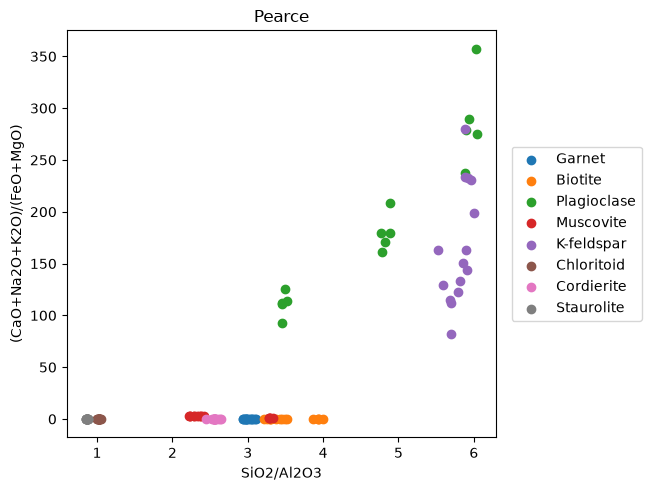
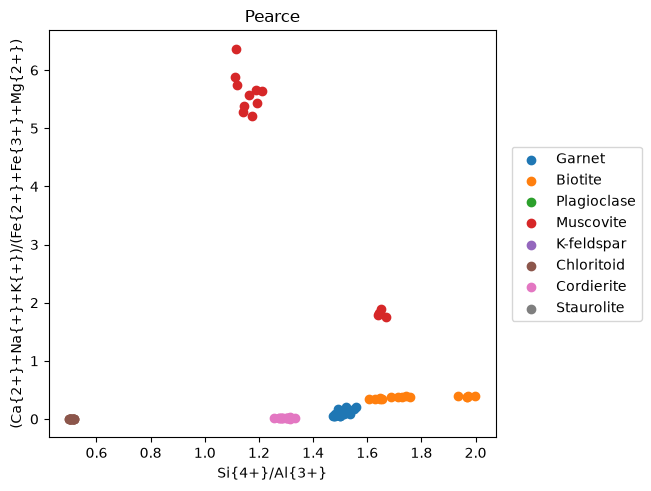
apfu column expression bug fix

diff --git a/src/petropandas/_plotting.py b/src/petropandas/_plotting.py
@@ -2,6 +2,7 @@ from __future__ import annotations
 
 import itertools
 import math
+import re
 from abc import ABC, abstractmethod
 from typing import Any
 
@@ -17,6 +18,59 @@ from matplotlib.ticker import MaxNLocator
 # placed this way as long as it's attached via `Axes.legend()` (not
 # `Figure.legend()`).
 _LEGEND_OUTSIDE_KWARGS = {"loc": "center left", "bbox_to_anchor": (1.02, 0.5)}
+
+# Matches an expr that is *only* a single column reference (bare identifier or one
+# backtick-quoted name) with nothing else - used to tell "plot this one column" (a
+# missing name should raise) apart from a genuine multi-term expression (a missing
+# name should default to 0, see `_eval`).
+_SINGLE_NAME_RE = re.compile(r"^[A-Za-z_][A-Za-z0-9_]*$|^`[^`]+`$")
+_NAME_TOKEN_RE = re.compile(r"`([^`]+)`|\b([A-Za-z_][A-Za-z0-9_]*)\b")
+# Python/numexpr keywords and function names DataFrame.eval() resolves itself - must
+# not be mistaken for missing columns and zero-filled.
+_EVAL_RESERVED = {
+    "and",
+    "or",
+    "not",
+    "in",
+    "is",
+    "if",
+    "else",
+    "True",
+    "False",
+    "None",
+    "abs",
+    "sqrt",
+    "log",
+    "log10",
+    "log1p",
+    "exp",
+    "sin",
+    "cos",
+    "tan",
+    "arcsin",
+    "arccos",
+    "arctan",
+    "sinh",
+    "cosh",
+    "tanh",
+    "where",
+    "arctan2",
+}
+
+
+def _referenced_names(expr: str) -> set[str]:
+    """Bare/backtick-quoted identifiers referenced in a `DataFrame.eval()` expression."""
+    names = set()
+    for backtick, ident in _NAME_TOKEN_RE.findall(expr):
+        name = backtick or ident
+        if backtick or name not in _EVAL_RESERVED:
+            names.add(name)
+    return names
+
+
+def _strip_backticks(expr: str) -> str:
+    """Remove backtick quoting from an expression for use as a display label."""
+    return expr.replace("`", "")
 
 
 class BasePlot(ABC):
@@ -153,8 +207,15 @@ class BasePlot(ABC):
         """Evaluate a column expression against a group's DataFrame.
 
         Args:
-            expr: ``pandas.eval()`` expression referencing columns of
-                ``data``.
+            expr: A column name of ``data`` (matched directly, so exotic
+                names like ion notation ``"Al{3+}"`` work with no
+                escaping), or a ``DataFrame.eval()`` expression — wrap
+                special-character column names in backticks to combine
+                them (e.g. ``` "`Al{3+}` + `Si{4+}`" ```). A name missing
+                from ``data`` defaults to 0 *within a multi-term
+                expression* (e.g. plotting ``"Sps+Grs"`` across mineral
+                groups that don't all report ``Sps``); a single column
+                reference that's entirely missing still raises.
             data: Samples in rows, variables in columns.
 
         Returns:
@@ -164,7 +225,18 @@ class BasePlot(ABC):
             TypeError: If ``expr`` evaluates to something other than a
                 ``pandas.Series`` (e.g. a constant expression).
         """
-        result = pd.eval(expr, local_dict=data)
+        stripped = expr.strip()
+        if stripped in data.columns:
+            result = data[stripped]
+        elif _SINGLE_NAME_RE.fullmatch(stripped):
+            result = data.eval(expr)
+        else:
+            missing = _referenced_names(expr) - set(data.columns)
+            if missing:
+                data = data.copy()
+                for name in missing:
+                    data[name] = 0.0
+            result = data.eval(expr)
         if not isinstance(result, pd.Series):
             raise TypeError(
                 f"Expression {expr!r} must evaluate to a pandas Series, "
@@ -217,8 +289,8 @@ class ScatterPlot(BasePlot):
         super().__init__(**kwargs)
         self.x = x
         self.y = y
-        self.xlabel = xlabel if xlabel is not None else x
-        self.ylabel = ylabel if ylabel is not None else y
+        self.xlabel = xlabel if xlabel is not None else _strip_backticks(x)
+        self.ylabel = ylabel if ylabel is not None else _strip_backticks(y)
         self.xlim = xlim
         self.ylim = ylim
 
@@ -598,9 +670,13 @@ class TernaryPlot(BasePlot):
         self.left = left
         self.right = right
         self.ternary_sum = ternary_sum
-        self.top_label = top_label if top_label is not None else top
-        self.left_label = left_label if left_label is not None else left
-        self.right_label = right_label if right_label is not None else right
+        self.top_label = top_label if top_label is not None else _strip_backticks(top)
+        self.left_label = (
+            left_label if left_label is not None else _strip_backticks(left)
+        )
+        self.right_label = (
+            right_label if right_label is not None else _strip_backticks(right)
+        )
         self.tlim = tlim
         self.llim = llim
         self.rlim = rlim
@@ -619,7 +695,7 @@ class TernaryPlot(BasePlot):
         ax.set_aspect("equal")
         ax.axis("off")
         if self.title:
-            ax.set_title(self.title, pad=28)
+            ax.set_title(self.title, pad=44)
 
         polygon = _polygon_vertices(self.tlim, self.llim, self.rlim, self.ternary_sum)
         xs, ys = zip(*(_project(v[0], v[1], v[2]) for v in polygon))
@@ -685,7 +761,9 @@ class TernaryPlot(BasePlot):
             )
 
         vertex_gap = label_gap * 2.5
+        top_vertex_gap = label_gap * 3.3
         cut_vertex_gap = tick_len + label_gap * 1.5
+        top_cut_vertex_gap = cut_vertex_gap + label_gap * 1.7
         vertex_tangent = {0: 0.0, 1: 0, 2: 0.0}
         vertex_tangent_gap = label_gap * 1.1
         for key, text in (
@@ -694,7 +772,10 @@ class TernaryPlot(BasePlot):
             (2, self.right_label),
         ):
             (cx, cy), (nx, ny), is_cut = _vertex_anchor(polygon, key, centroid)
-            gap = cut_vertex_gap if is_cut else vertex_gap
+            if key == 0:
+                gap = top_cut_vertex_gap if is_cut else top_vertex_gap
+            else:
+                gap = cut_vertex_gap if is_cut else vertex_gap
             rotation = axis_rotation.get(key, 0.0)
             tx = (
                 math.cos(math.radians(rotation))

diff --git a/tests/test_plotting.py b/tests/test_plotting.py
@@ -51,6 +51,86 @@ def test_scatter_eval_expressions_produce_correct_offsets(
     assert offsets[:, 1] == pytest.approx(expected_y)
 
 
+def test_scatter_ion_notation_column_names():
+    """Ion/APFU column names (e.g. "Al{3+}") contain characters that are not
+    valid in a bare pandas.eval() expression -- plotting them directly must
+    not raise SyntaxError."""
+    df = pd.DataFrame({"Al{3+}": [1.0, 2.0], "Si{4+}": [3.0, 4.0]})
+    s = ScatterPlot("Al{3+}", "Si{4+}")
+    s.add(df)
+    fig, ax = s.render()
+    offsets = np.asarray(ax.collections[0].get_offsets())
+    assert offsets[:, 0] == pytest.approx(df["Al{3+}"].to_numpy())
+    assert offsets[:, 1] == pytest.approx(df["Si{4+}"].to_numpy())
+    plt.close(fig)
+
+
+def test_scatter_backtick_quoted_ion_expression():
+    """Special-character column names can still be combined in an expression
+    via backtick-quoting (standard pandas.DataFrame.eval() syntax)."""
+    df = pd.DataFrame({"Al{3+}": [1.0, 2.0], "Si{4+}": [3.0, 4.0]})
+    s = ScatterPlot("`Al{3+}` + `Si{4+}`", "Al{3+}")
+    s.add(df)
+    fig, ax = s.render()
+    offsets = np.asarray(ax.collections[0].get_offsets())
+    assert offsets[:, 0] == pytest.approx((df["Al{3+}"] + df["Si{4+}"]).to_numpy())
+    plt.close(fig)
+
+
+def test_scatter_default_label_strips_backticks():
+    """Backtick quoting is eval() syntax, not part of the intended label text."""
+    df = pd.DataFrame({"Al{3+}": [1.0, 2.0], "Si{4+}": [3.0, 4.0]})
+    s = ScatterPlot("`Al{3+}` + `Si{4+}`", "Al{3+}")
+    s.add(df)
+    fig, ax = s.render()
+    assert ax.get_xlabel() == "Al{3+} + Si{4+}"
+    assert ax.get_ylabel() == "Al{3+}"
+    plt.close(fig)
+
+
+def test_scatter_explicit_label_with_backtick_unchanged():
+    df = pd.DataFrame({"Al{3+}": [1.0, 2.0]})
+    s = ScatterPlot("Al{3+}", "Al{3+}", xlabel="literal `backtick` label")
+    s.add(df)
+    fig, ax = s.render()
+    assert ax.get_xlabel() == "literal `backtick` label"
+    plt.close(fig)
+
+
+def test_scatter_missing_name_in_expression_defaults_to_zero():
+    """Groups don't always share every column (e.g. not every mineral group
+    reports Sps) -- a name missing from *within* a multi-term expression
+    should default to 0 rather than raising UndefinedVariableError."""
+    df = pd.DataFrame({"Grs": [1.0, 2.0]})
+    s = ScatterPlot("Sps+Grs", "Grs")
+    s.add(df)
+    fig, ax = s.render()
+    offsets = np.asarray(ax.collections[0].get_offsets())
+    assert offsets[:, 0] == pytest.approx(df["Grs"].to_numpy())
+    plt.close(fig)
+
+
+def test_scatter_missing_backtick_name_in_expression_defaults_to_zero():
+    df = pd.DataFrame({"Al{3+}": [1.0, 2.0]})
+    s = ScatterPlot("`Al{3+}` + `Si{4+}`", "Al{3+}")
+    s.add(df)
+    fig, ax = s.render()
+    offsets = np.asarray(ax.collections[0].get_offsets())
+    assert offsets[:, 0] == pytest.approx(df["Al{3+}"].to_numpy())
+    plt.close(fig)
+
+
+def test_scatter_missing_single_column_still_raises():
+    """A lone column reference that's entirely missing is a real usage error
+    (e.g. a typo), not a "some groups lack this value" situation -- it must
+    keep raising rather than silently plotting zeros."""
+    df = pd.DataFrame({"Grs": [1.0, 2.0]})
+    s = ScatterPlot("Sps", "Grs")
+    s.add(df)
+    with pytest.raises(pd.errors.UndefinedVariableError):
+        s.render()
+
+
 def test_scatter_legend_labels(scatter_rendered):
     _, ax = scatter_rendered
     labels = [t.get_text() for t in ax.get_legend().get_texts()]
@@ -183,6 +263,20 @@ def test_ternary_default_corner_labels_from_expressions(ternary_rendered):
     assert "Prp" in texts
     assert "Sps" in texts
     assert "Grs" in texts
+
+
+def test_ternary_default_labels_strip_backticks():
+    df = pd.DataFrame(
+        {"Al{3+}": [1.0, 2.0], "Si{4+}": [3.0, 4.0], "Ca{2+}": [0.5, 0.5]}
+    )
+    t = TernaryPlot("`Al{3+}` + `Si{4+}`", "Al{3+}", "Ca{2+}")
+    t.add(df)
+    fig, ax = t.render()
+    texts = [txt.get_text() for txt in ax.texts]
+    assert "Al{3+} + Si{4+}" in texts
+    assert "Al{3+}" in texts
+    assert "Ca{2+}" in texts
+    plt.close(fig)
 
 
 def test_ternary_default_ternary_sum():

diff --git a/docs/tutorial.md b/docs/tutorial.md
@@ -1,5 +1,5 @@
 # Tutorial
-Here we demonstrate the `petropandas` package. It could be activated by importing pandas alias `pd` from `petropandas` or import all for full functionality.
+Here we demonstrate the `petropandas` package. For simplicity, we will use star import.
 
 
 ```python
@@ -4068,13 +4068,23 @@ t.show()
 
 
 
-Scatter plots are also available
+Scatter plots are also available. Note when using apfu, the ions names in expressions must be back-quoted.
 
 
 ```python
-s = ScatterPlot("SiO2/Al2O3", "(CaO+Na2O+K2O)/(FeO+MgO)", title="Pearce")
-for mineral in ['Garnet', 'Biotite', 'Plagioclase', 'Muscovite', 'K-feldspar', 'Chloritoid', 'Cordierite', 'Staurolite']:
-    s.add(df.oxides.select(mineral, on="Mineral").moles(), label=mineral)
+pairs = [
+    ('Garnet', Grt),
+    ('Biotite', Bt),
+    ('Plagioclase', Fsp),
+    ('Muscovite', Ms),
+    ('K-feldspar', Fsp),
+    ('Chloritoid', Cld),
+    ('Cordierite', Crd),
+    ('Staurolite', St)
+]
+s = ScatterPlot("`Si{4+}`/`Al{3+}`", "(`Ca{2+}`+`Na{+}`+`K{+}`)/(`Fe{2+}`+`Fe{3+}`+`Mg{2+}`)", title="Pearce")
+for mineral, model in pairs:
+    s.add(df.oxides.select(mineral, on="Mineral").mineral.apfu(model), label=mineral)
 s.show()
 ```
 

diff --git a/docs/api/database.md b/docs/api/database.md
@@ -19,6 +19,8 @@ PetroDB is a REST client for the petrodb database, providing access to projects,
 
 ::: petropandas._database.APIError
 
+::: petropandas._database.ReadOnlyError
+
 ## Data Model
 
 ### Project
@@ -52,6 +54,13 @@ PetroDB is a REST client for the petrodb database, providing access to projects,
 ### Area
 
 ::: petropandas._database.Area
+    options:
+      show_source: false
+      members_order: source
+
+### ProfileSpot
+
+::: petropandas._database.ProfileSpot
     options:
       show_source: false
       members_order: source

diff --git a/docs/api/calc.md b/docs/api/calc.md
@@ -20,6 +20,10 @@ The `petropandas._calc` module provides pure functions for unit conversions, val
     options:
       show_source: false
 
+::: petropandas._calc.to_apfu_by_charge
+    options:
+      show_source: false
+
 ::: petropandas._calc.from_apfu
     options:
       show_source: false